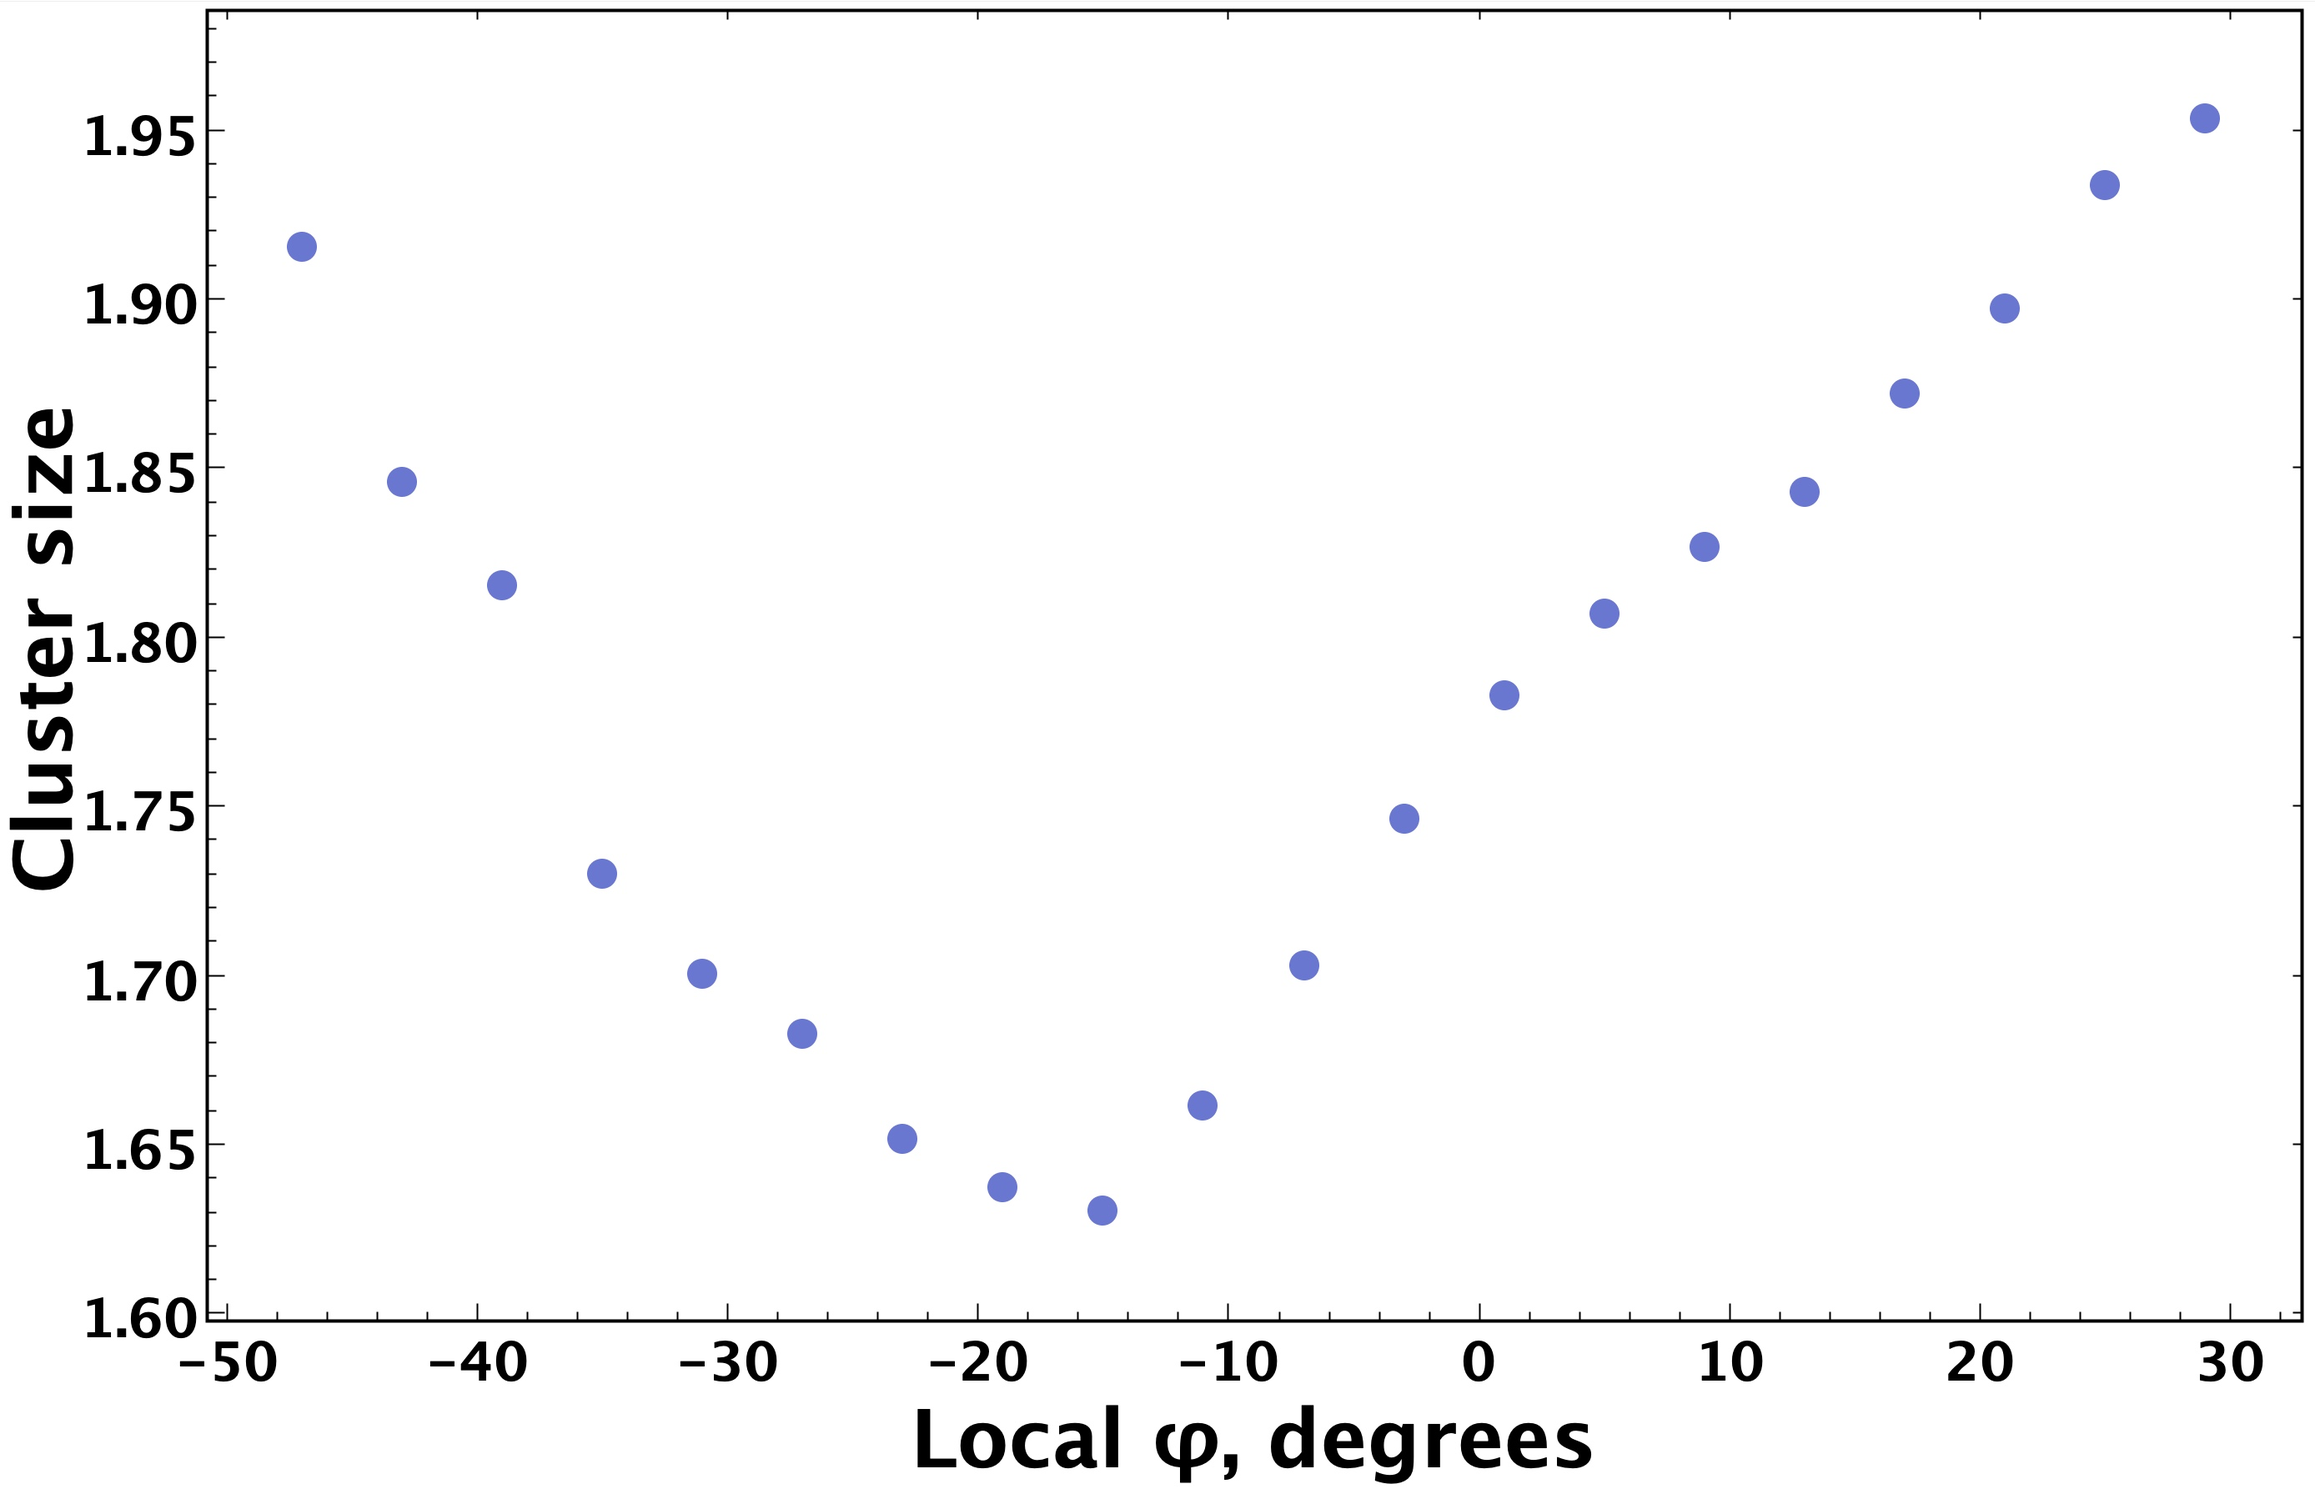
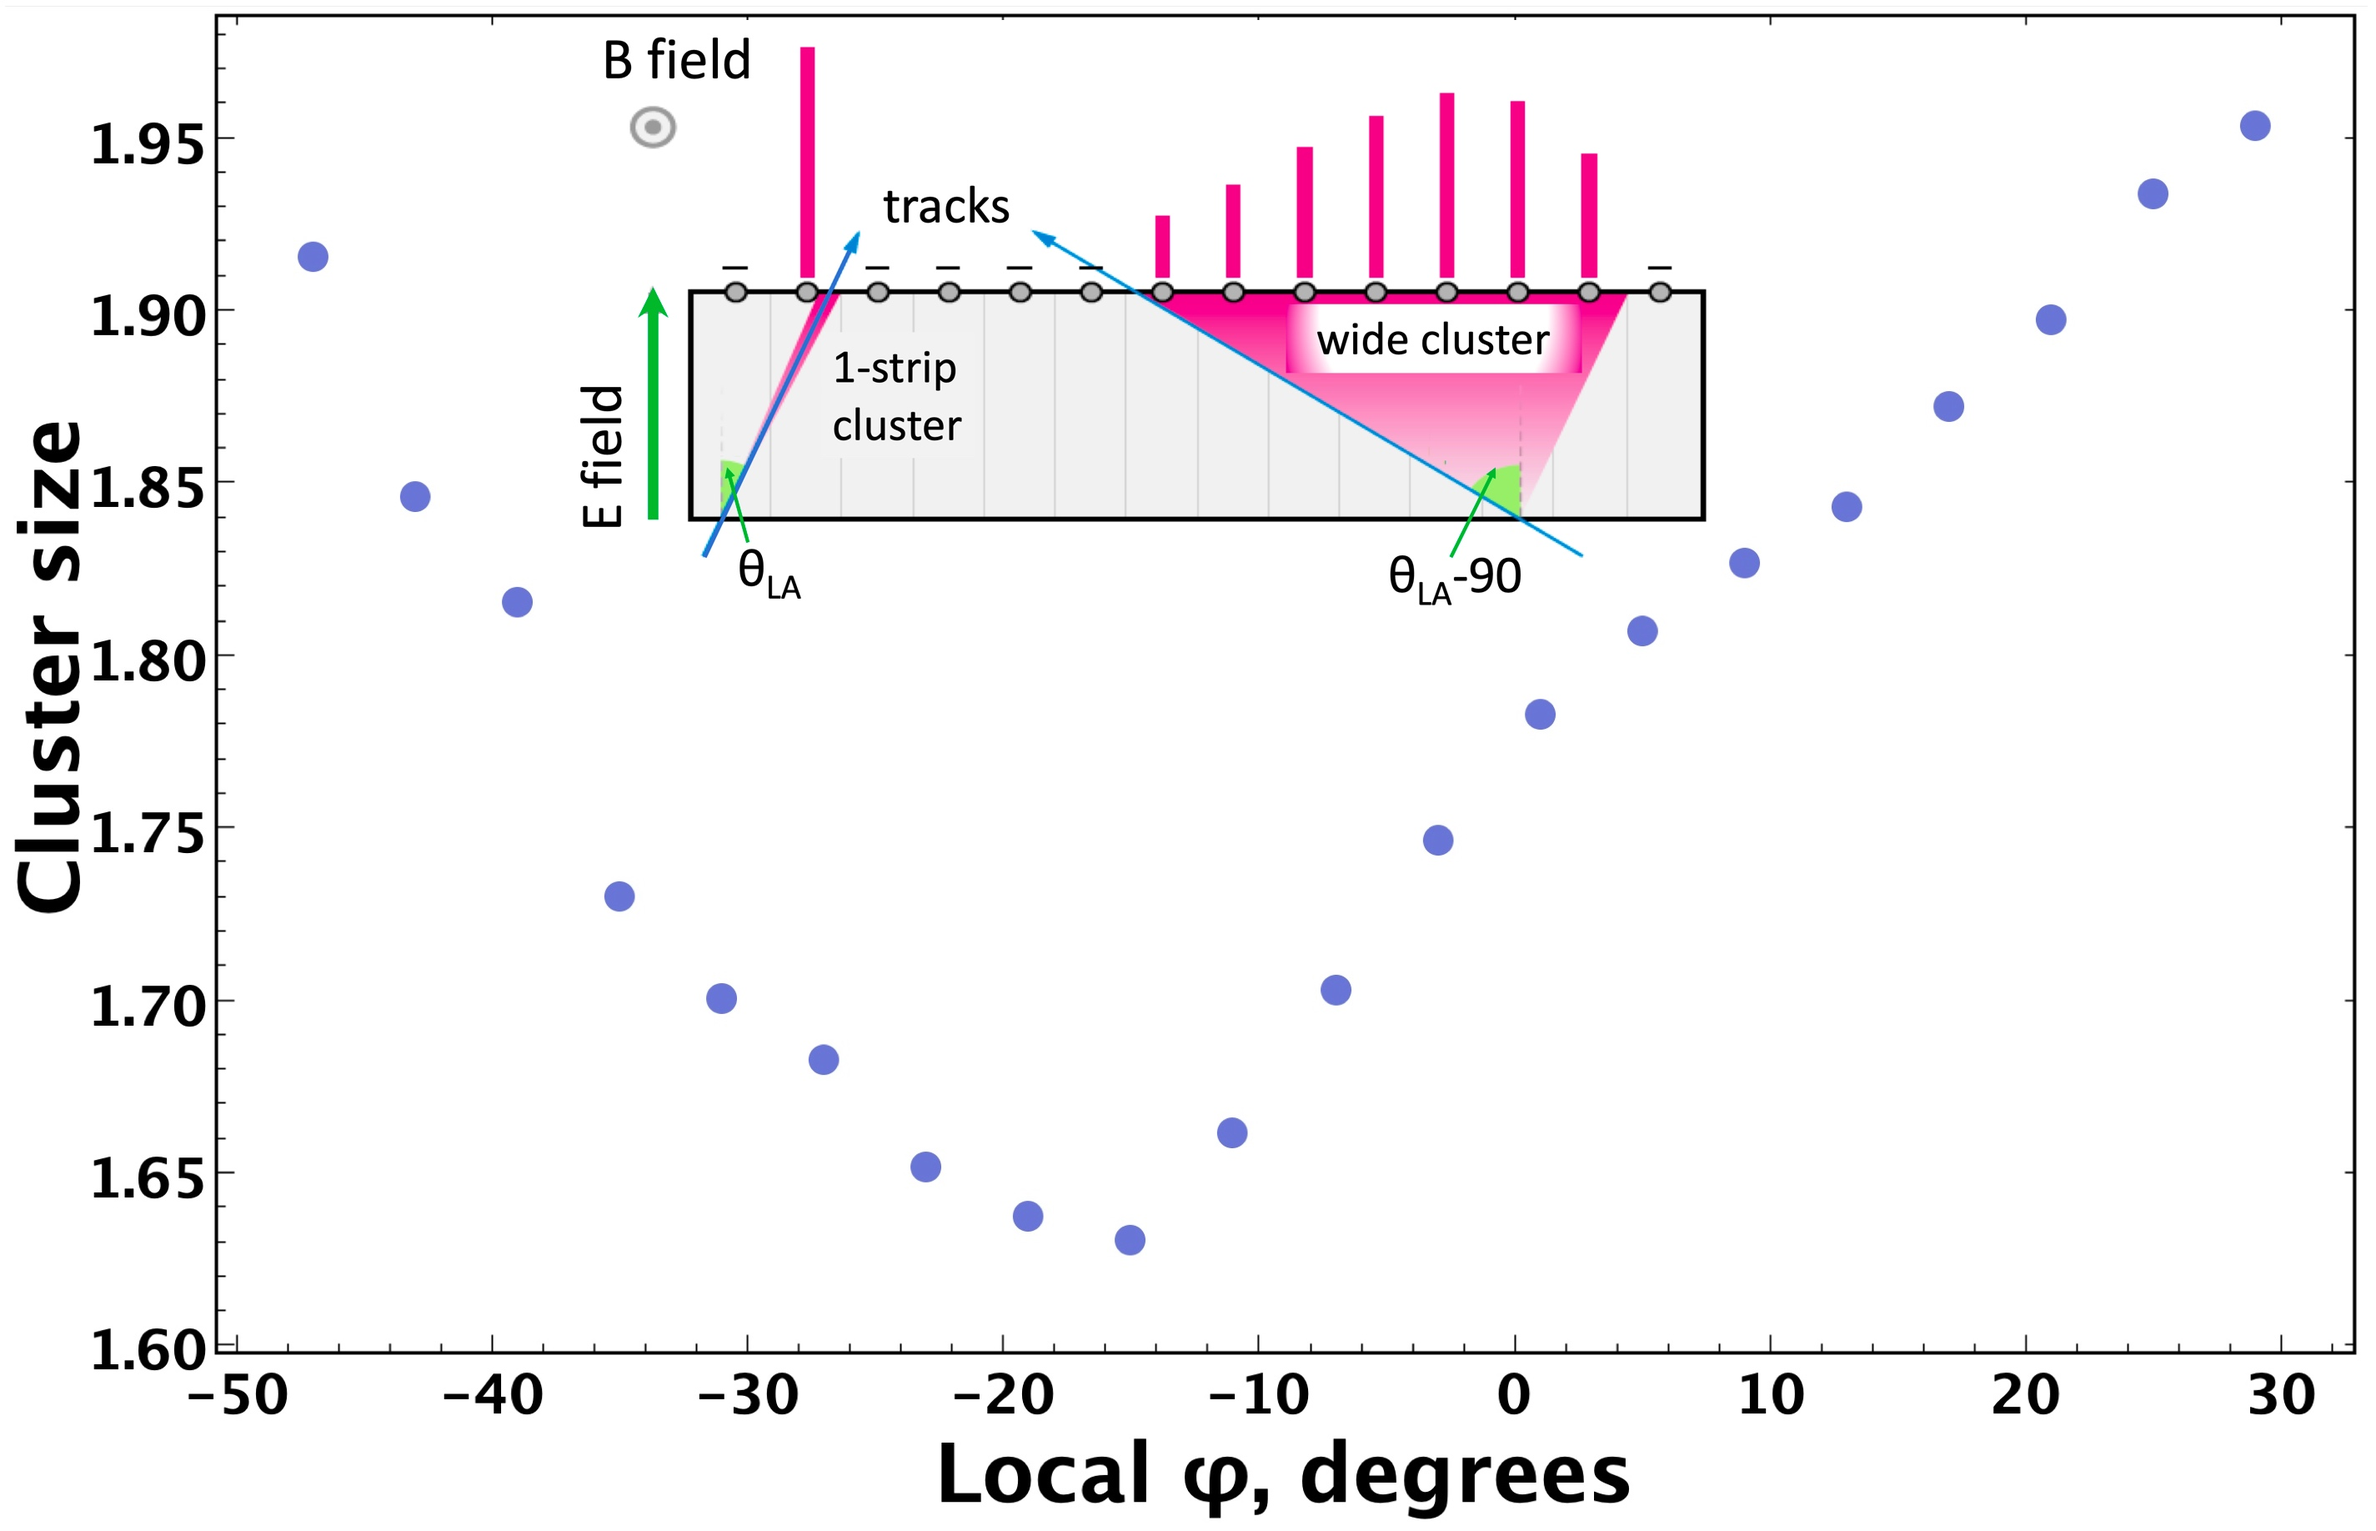
update performance

diff --git a/svt/performance.tex b/svt/performance.tex
@@ -308,14 +308,23 @@ Fig.~\ref{fig:occupancy-beam-current} shows SVT occupancy vs. beam current for h
 \label{fig:residual}
 \end{figure}
 
-A series of dedicated central tracker alignment runs was done at low beam current without magnetic field. The alignment data were collected when position of the central detector subsystems or the target has changed. The dependence of the residuals on the track parameters is explicitly taken into account. The alignment code uses the partial derivatives of the distance of closest approach (DOCA) taken with respect to the track parameters and the SVT geometry. This approach accounts for the correlated shifts among the geometry parameters. In addition to the track-based alignment, the data from the mechanical survey of the fiducials were also recorded when the detectors were moved. Centroid residual for one of the SVT sensors after preliminary tracker alignment is shown in Fig.~\ref{fig:residual}. Sensor spacial resolution is within the specs. Further improvements are expected from the ongoing development of the alignment algorithm and the track reconstruction code (like energy loss and Lorentz angle corrections).
+A series of dedicated central tracker alignment runs was done at low beam current without magnetic field. The alignment data were collected when position of the central detector subsystems or the target has changed. The dependence of the residuals on the track parameters is explicitly taken into account. The alignment code uses the partial derivatives of the distance of closest approach (DOCA) taken with respect to the track parameters and the SVT geometry. This approach accounts for the correlated shifts among the geometry parameters. In addition to the track-based alignment, the data from the mechanical survey of the fiducials were also recorded when the detectors were moved. Centroid residual for one of the SVT sensors after preliminary tracker alignment is shown in Fig.~\ref{fig:residual}. Sensor spacial resolution is within the specs. Further improvements are expected from the ongoing development of the alignment algorithm and the track reconstruction code (like energy loss and Lorentz angle corrections which have strong impact on alignment).
 
 \begin{figure}[hbt] 
 \centering 
 \includegraphics[width=1.0\columnwidth,keepaspectratio]{lorentz-angle.jpg}
-\caption{Cluster size vs. local track azimuthal angle.}
+\caption{Cluster size vs. local track azimuthal angle. The insert shows dependence of the cluster size on the track angle.}
 \label{fig:lorentz-angle}
 \end{figure}
 
-Fig.~\ref{fig:lorentz-angle} shows average cluster size at different local azimuthal angles of the track. Zero angle is related to the normal incident tracks. The data were taken at negative polarity of the solenoid field. The smallest cluster size corresponds to the Lorentz angle when the track is parallel to the magnetic field lines.
+In a strong magnetic field, charge in the silicon detector drifts at the Lorentz Angle, which must be taken into account when reconstructing the cluster position. Fig.~\ref{fig:lorentz-angle} shows average cluster size at different local azimuthal angles of the track. Zero angle is related to the normal incident tracks. The data were taken at negative polarity of the solenoid field. The Lorentz angle $\Theta_{LA}$ can be calculated as the track incidence angle corresponding to the minimum of the average cluster size when the track local angle is equal to the Lorentz angle.
+
+\begin{figure}[hbt] 
+\centering 
+\includegraphics[width=1.0\columnwidth,keepaspectratio]{matched-hits.jpg}
+\caption{Number of the SVT hits per track.}
+\label{fig:matched-hits}
+\end{figure}
+
+The number of matched SVT hits per reconstructed track in the physics run with the hydrogen target is shown in Fig.~\ref{fig:matched-hits}. For most tracks all 6 SVT layers have been matched. The tracks with low number of matched hits passed through the gaps between the modules.
 

diff --git a/svt/design.tex b/svt/design.tex
@@ -42,7 +42,7 @@ The cold plate and upstream ring are attached to the mounting tube. The mounting
 
 \subsection{Module design}
 
-The SVT uses single-sided 320-$\mu$m thick microstrip sensors fabricated by Hamamatsu, mounted on each side of the module (see Fig.~\ref{fig:module}). All modules have 3 types of sensors: H (Hybrid), I (Intermediate), and F (Far). The sensors were cut from 6 inch wafers with resistivity of 5 $\kiloohm$, 2 sensors per wafer to maximize the yield. Surface damage is minimized by using silicon with a <100> surface orientation. All sensors have the same size, 112$\times$42 mm. There are three daisy-chained sensors per layer (six per module) with a 110~$\mu$m gap between them. 
+The SVT uses single-sided 320-$\mu$m thick microstrip sensors fabricated by Hamamatsu, mounted on each side of the module (see Fig.~\ref{fig:module}). All modules have 3 types of sensors: H (Hybrid), I (Intermediate), and F (Far). The sensors were cut from 6 inch wafers with high resistivity of 5 $\kiloohm$, to ensure low full depletion voltage, 2 sensors per wafer to maximize the yield. Surface damage is minimized by using silicon with a <100> surface orientation. All sensors have the same size, 112$\times$42 mm. There are three daisy-chained sensors per layer (six per module) with a 110~$\mu$m gap between them. 
 
 \begin{figure}[hbt] 
 \centering 
